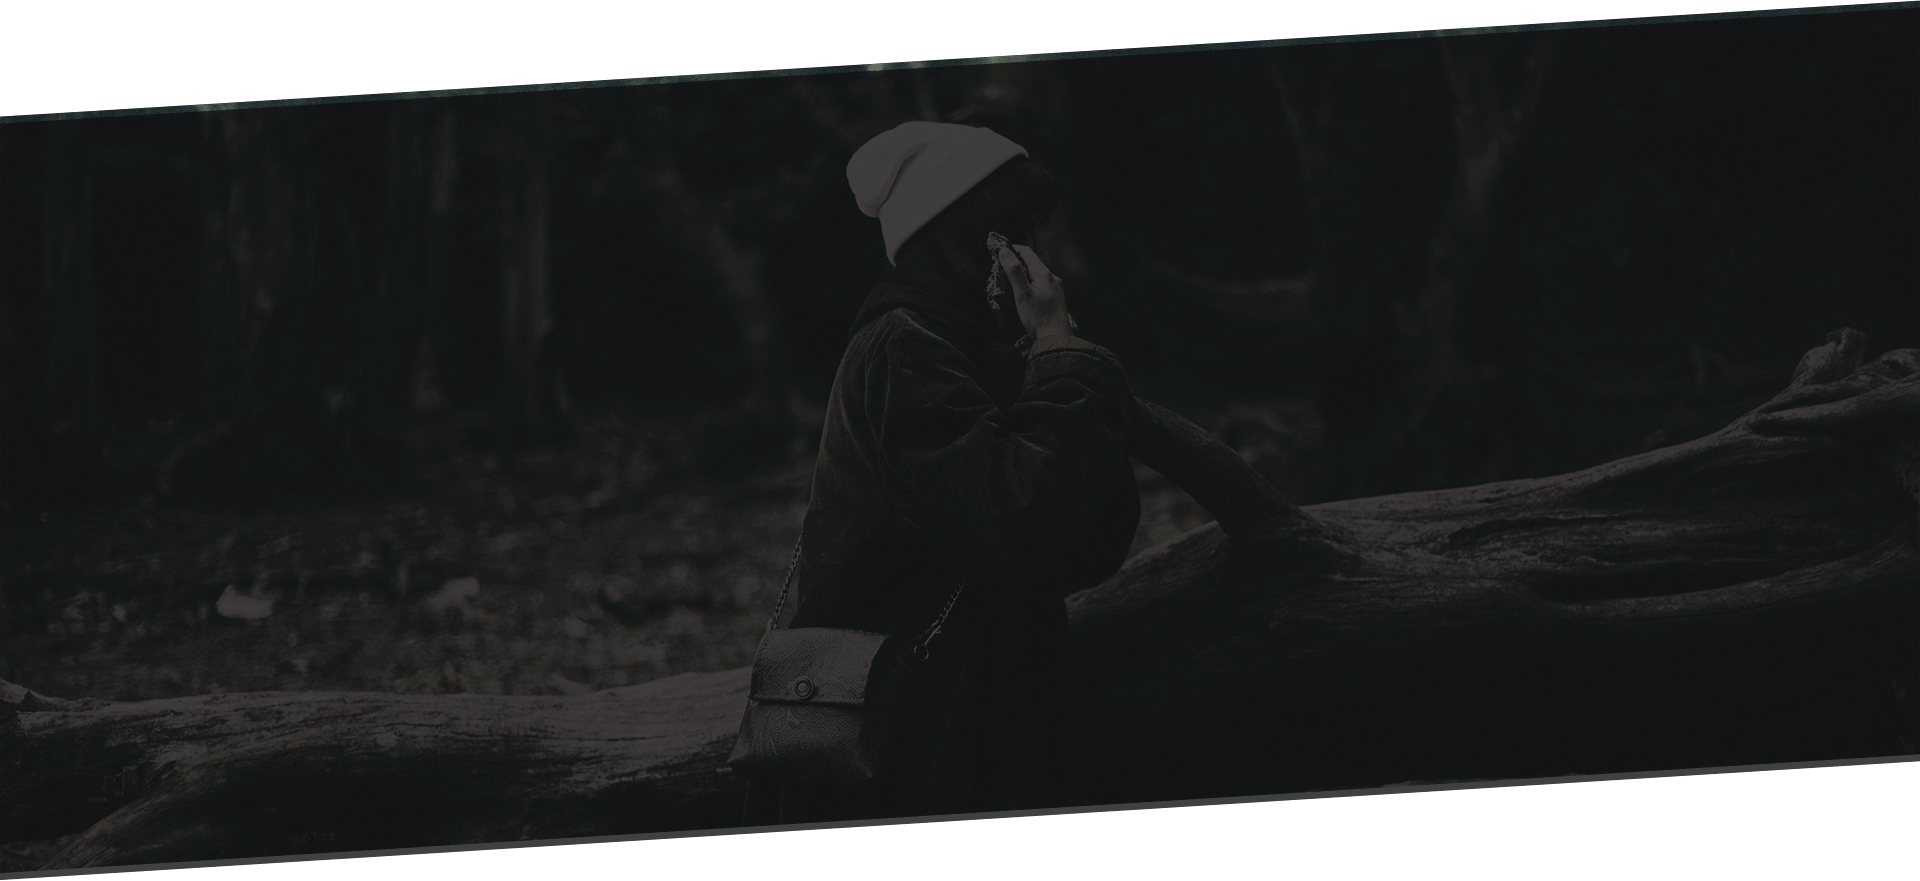
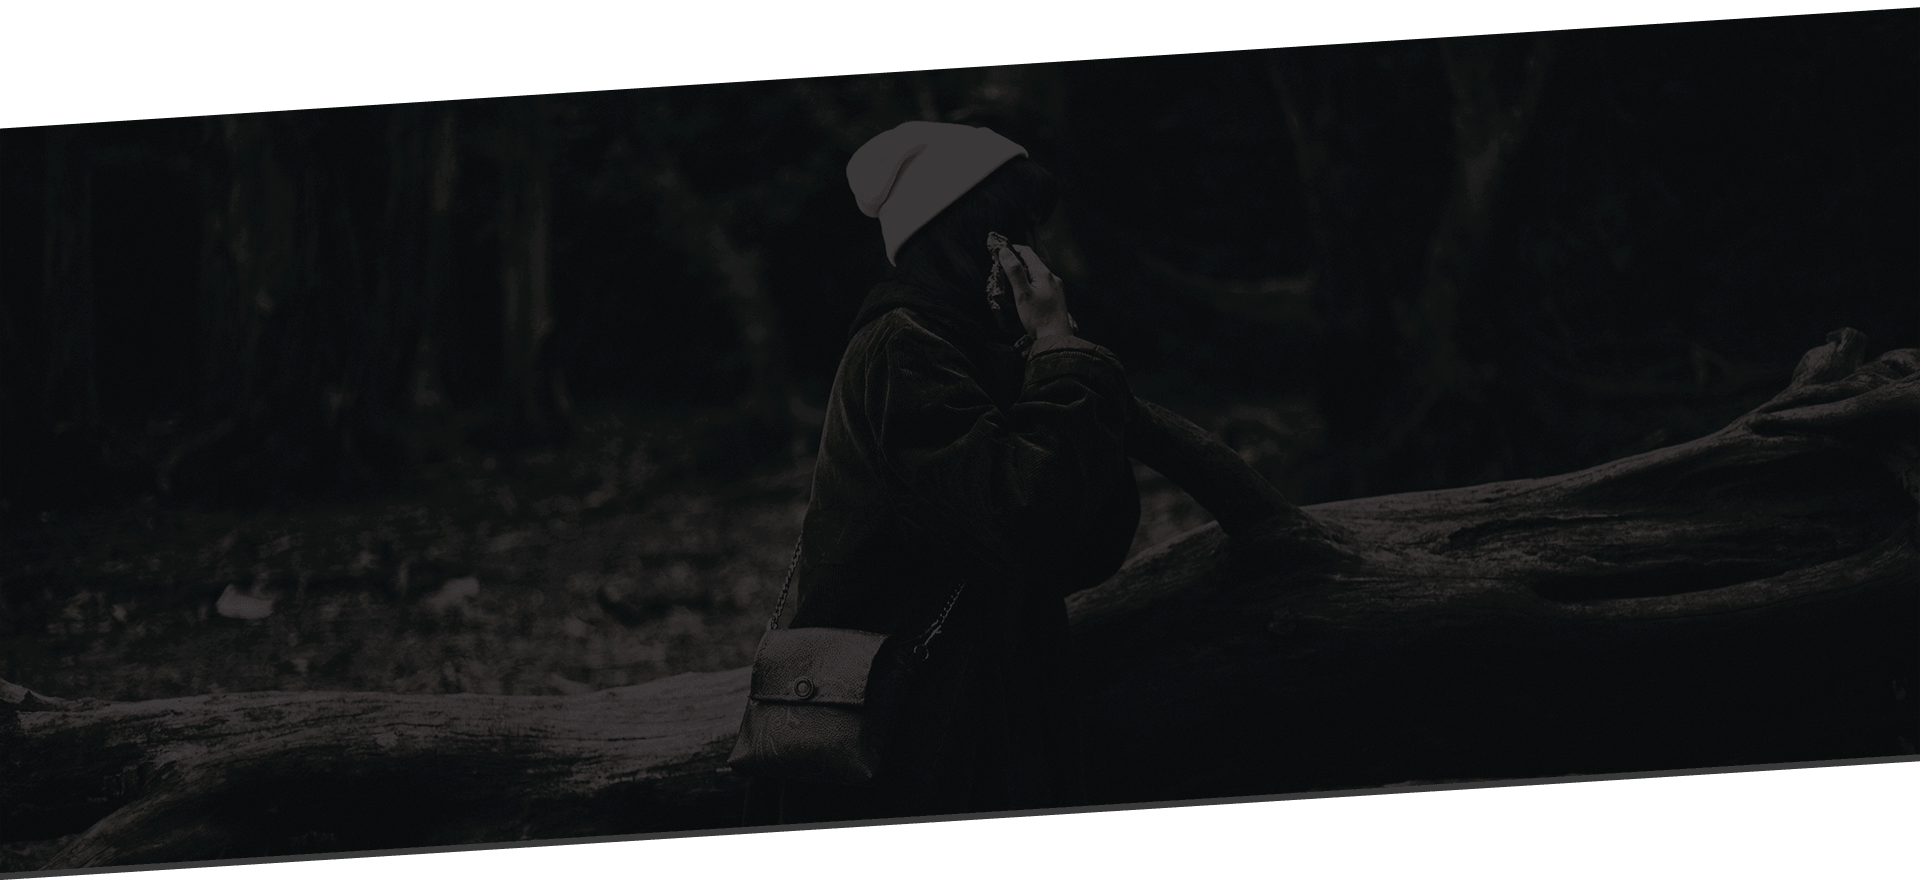
Photo fixes

Changed region(s): [[0.0, 0.0, 1.0, 0.1532]]

diff --git a/styles/style.css b/styles/style.css
@@ -529,7 +529,7 @@
         background-repeat:no-repeat;
         width:100%;
         height:60vw;
-        margin-top:-8vw;
+        margin-top:-9.1vw;
         color:white;
     
     }
